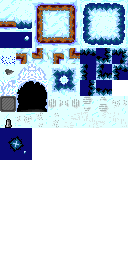
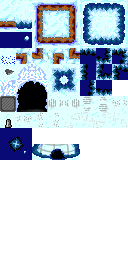
begin level3

Changed region(s): [[0.25, 0.5625, 0.625, 0.625]]

diff --git a/levels/level3.js b/levels/level3.js
@@ -1,0 +1,22 @@
+
+//Level3 class, inherits Level
+function Level3(startMetaTile)
+{
+  console.log("Create Level3");
+  Level.call(this,"levels/level3.json",startMetaTile);// Parent constructor
+  window.dataManager.loadfile(startGame,"data/data1.json",this);
+  
+  //returns true if have to change level
+  this.testSpecialActions=function()
+  { 
+
+    return false;
+  }
+ 
+  //override drawing function to add snow storm
+  this.draw=function(camera)
+  {
+    this.drawBase(camera);// Parent draw
+    
+  }
+}

diff --git a/scripts/tntux.js b/scripts/tntux.js
@@ -4,7 +4,7 @@ window.level=0;
 
 $(document).ready(function() //or $(function()
   {
-    window.level=new Level1("startA");
+    window.level=new Level3("startA");
   }
 );
 

diff --git a/main.html b/main.html
@@ -23,6 +23,7 @@
 
 	<script src="levels/level1.js"></script>
 	<script src="levels/level2.js"></script>
+	<script src="levels/level3.js"></script>
 
 </body>
 
